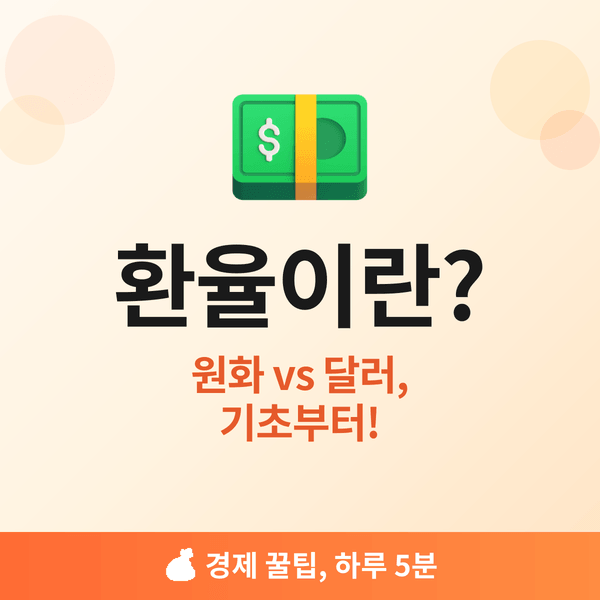
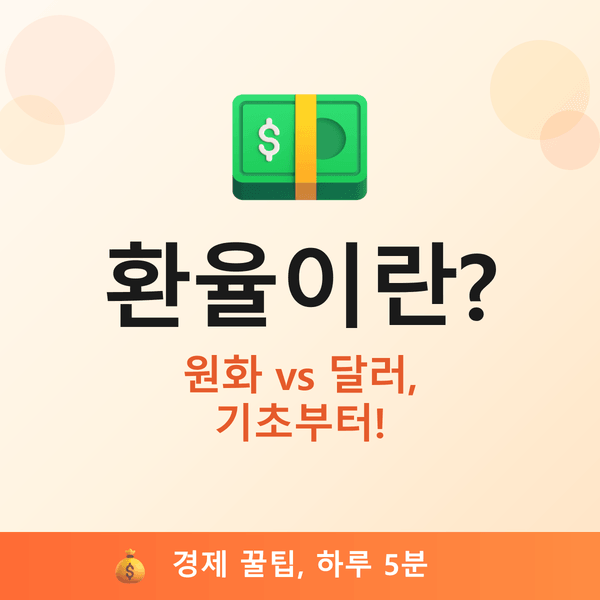
fix(economy): Day 12~21 썸네일 재생성 (💰 PNG 합성 반영)

Changed region(s): [[0.18, 0.39, 0.84, 0.75], [0.27, 0.9, 0.75, 0.99], [0.18, 0.9, 0.24, 0.99]]

diff --git a/scripts/refresh-economy-thumbnails.js b/scripts/refresh-economy-thumbnails.js
@@ -1,0 +1,151 @@
+// Day N1~N2 범위의 경제 블로그 썸네일 재생성 + 포스트 HTML의 썸네일 URL에 버전 쿼리 부가
+//
+// 사용법:
+//   node scripts/refresh-economy-thumbnails.js --from 12 --to 21
+//   node scripts/refresh-economy-thumbnails.js --days 12,13,14
+//
+// 동작:
+//   1) topics.yaml에서 각 Day 정보 읽기
+//   2) economy-blog/thumbnails/day-NN.png 재생성 (덮어쓰기)
+//   3) 해당 SCHEDULED 포스트 찾아서 content HTML의 <img src>에 ?v=<timestamp> 붙여 Blogger 캐시 강제 무효화 (PATCH)
+
+const fs = require('fs');
+const path = require('path');
+const yaml = require('js-yaml');
+const { renderThumbnailPng } = require('../economy-blog/generate-thumbnail');
+
+function loadEnv() {
+  const envPath = path.join(__dirname, '..', '.env');
+  if (!fs.existsSync(envPath)) return;
+  fs.readFileSync(envPath, 'utf8').split('\n').forEach(line => {
+    const t = line.trim();
+    if (!t || t.startsWith('#')) return;
+    const i = t.indexOf('=');
+    if (i > 0 && !process.env[t.slice(0, i).trim()]) {
+      process.env[t.slice(0, i).trim()] = t.slice(i + 1).trim();
+    }
+  });
+}
+loadEnv();
+
+function parseArgs() {
+  const args = process.argv.slice(2);
+  const out = {};
+  for (let i = 0; i < args.length; i++) {
+    if (args[i] === '--from') out.from = parseInt(args[++i], 10);
+    else if (args[i] === '--to') out.to = parseInt(args[++i], 10);
+    else if (args[i] === '--days') out.days = args[++i].split(',').map(n => parseInt(n, 10));
+    else if (args[i] === '--no-patch') out.noPatch = true;
+  }
+  return out;
+}
+
+async function getAccessToken() {
+  const r = await fetch('https://oauth2.googleapis.com/token', {
+    method: 'POST',
+    headers: { 'Content-Type': 'application/x-www-form-urlencoded' },
+    body: new URLSearchParams({
+      client_id: process.env.GOOGLE_CLIENT_ID,
+      client_secret: process.env.GOOGLE_CLIENT_SECRET,
+      refresh_token: process.env.GOOGLE_REFRESH_TOKEN,
+      grant_type: 'refresh_token',
+    }),
+  });
+  const d = await r.json();
+  if (!d.access_token) throw new Error('토큰 발급 실패: ' + JSON.stringify(d).slice(0, 200));
+  return d.access_token;
+}
+
+async function listPosts(token) {
+  const all = [];
+  for (const st of ['SCHEDULED', 'DRAFT']) {
+    const u = `https://www.googleapis.com/blogger/v3/blogs/${process.env.BLOG_ID}/posts?status=${st}&fetchBodies=true&maxResults=50`;
+    const res = await fetch(u, { headers: { Authorization: 'Bearer ' + token } });
+    const d = await res.json();
+    if (d.items) all.push(...d.items);
+  }
+  return all;
+}
+
+async function patchPostContent(token, postId, newContent) {
+  const u = `https://www.googleapis.com/blogger/v3/blogs/${process.env.BLOG_ID}/posts/${postId}`;
+  const res = await fetch(u, {
+    method: 'PATCH',
+    headers: { Authorization: 'Bearer ' + token, 'Content-Type': 'application/json' },
+    body: JSON.stringify({ content: newContent }),
+  });
+  if (!res.ok) throw new Error(`PATCH ${res.status}: ${(await res.text()).slice(0, 300)}`);
+  return res.json();
+}
+
+async function main() {
+  const args = parseArgs();
+  const dayList = args.days || (() => {
+    const out = [];
+    for (let d = args.from; d <= args.to; d++) out.push(d);
+    return out;
+  })();
+
+  if (!dayList.length) {
+    console.error('❌ --from N --to N 또는 --days 12,13,14 필요');
+    process.exit(1);
+  }
+
+  const topicsPath = path.join(__dirname, '..', 'economy-blog', 'topics.yaml');
+  const topicsData = yaml.load(fs.readFileSync(topicsPath, 'utf8'));
+
+  const token = await getAccessToken();
+  const posts = await listPosts(token);
+  console.log(`📋 조회된 DRAFT/SCHEDULED: ${posts.length}편\n`);
+
+  const stamp = Date.now();
+
+  for (const day of dayList) {
+    const topic = topicsData.topics.find(t => t.day === day);
+    if (!topic) {
+      console.warn(`⚠ Day ${day} 주제 없음 in topics.yaml`);
+      continue;
+    }
+
+    const dayId = `day-${String(day).padStart(2, '0')}`;
+    const pngPath = path.join(__dirname, '..', 'economy-blog', 'thumbnails', `${dayId}.png`);
+
+    // 1. 썸네일 재생성
+    await renderThumbnailPng({
+      title: topic.thumb_title,
+      subtitle: topic.subtitle,
+      brand: '경제 꿀팁, 하루 5분',
+      emoji: topic.emoji,
+      outputPath: pngPath,
+    });
+    const size = fs.statSync(pngPath).size;
+    console.log(`✅ ${dayId} 썸네일 재생성 (${Math.round(size / 1024)}KB)`);
+
+    // 2. 해당 post 찾기 & HTML patch
+    if (!args.noPatch) {
+      const match = posts.find(p => p.title === topic.title);
+      if (!match) {
+        console.warn(`   ⚠ 일치하는 post 없음 (title: ${topic.title.slice(0, 30)})`);
+        continue;
+      }
+      let content = match.content || '';
+      // 기존 썸네일 URL에 ?v=stamp 붙이기 (이미 쿼리 있으면 교체)
+      const repo = process.env.GITHUB_REPOSITORY || 'khe3716/content-studio';
+      const pattern = new RegExp(`(https://raw\\.githubusercontent\\.com/${repo.replace('/', '\\/')}/main/economy-blog/thumbnails/${dayId}\\.png)(\\?v=\\d+)?`, 'g');
+      const newUrl = `$1?v=${stamp}`;
+      if (!pattern.test(content)) {
+        console.warn(`   ⚠ 썸네일 URL 패턴 못 찾음. 스킵.`);
+        continue;
+      }
+      // re-test로 pattern 리셋
+      pattern.lastIndex = 0;
+      const newContent = content.replace(pattern, newUrl);
+      await patchPostContent(token, match.id, newContent);
+      console.log(`   🔄 post ${match.id} content 업데이트 (?v=${stamp})`);
+    }
+  }
+
+  console.log(`\n🎉 완료 (stamp=${stamp})`);
+}
+
+main().catch(e => { console.error('❌', e); process.exit(1); });
